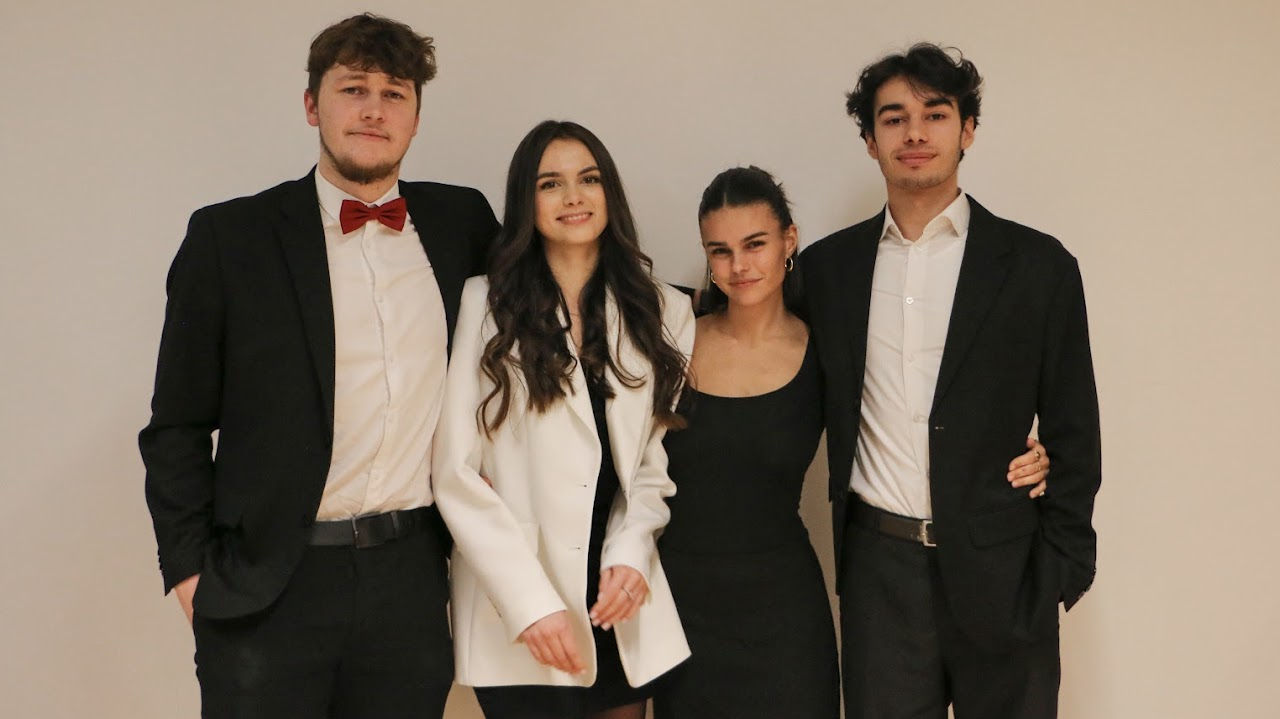
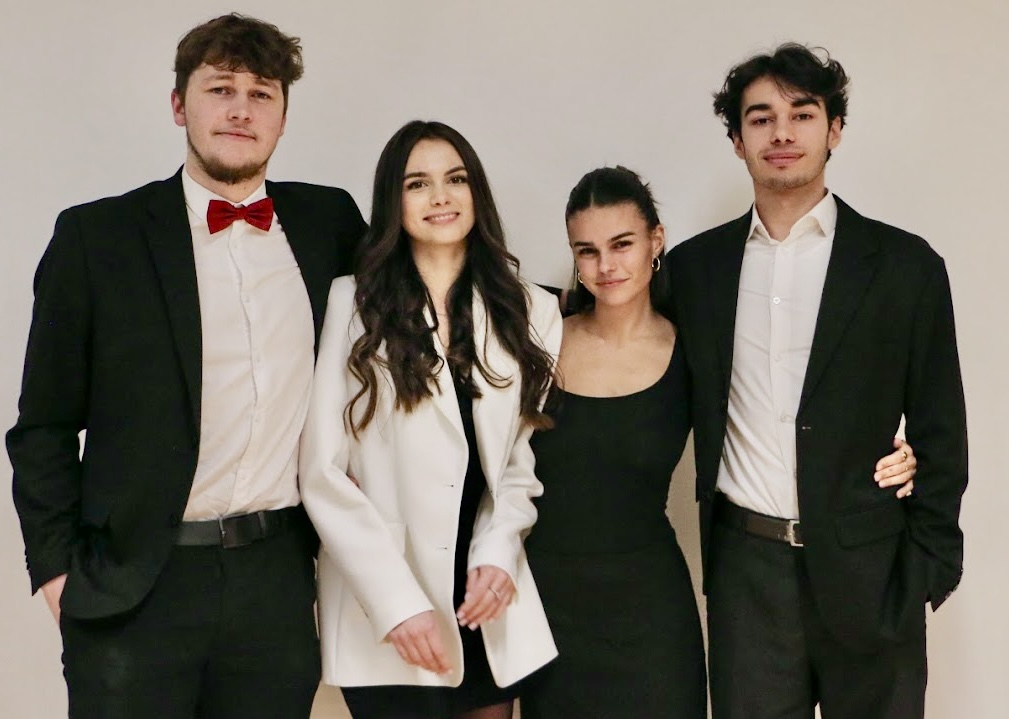
Use enhanced PR photo and show full team photos in all previews

diff --git a/index.html b/index.html
@@ -9,7 +9,7 @@
   <link rel="preconnect" href="https://fonts.googleapis.com">
   <link rel="preconnect" href="https://fonts.gstatic.com" crossorigin>
   <link href="https://fonts.googleapis.com/css2?family=Inter:wght@400;500;600;700;800;900&amp;display=swap" rel="stylesheet">
-  <link rel="stylesheet" href="styles.css">
+  <link rel="stylesheet" href="styles.css?v=full-team-photos-20260908">
 </head>
 <body>
   <a class="skip-link" href="#main">Skip to content</a>
@@ -94,7 +94,7 @@
             <span class="card-body"><span class="card-number">07</span><strong>Marketing and Communication</strong><span>Shape our voice and digital presence.</span><span class="card-arrow" aria-hidden="true">&rarr;</span></span>
           </button>
           <button class="department-card" type="button" data-department="relations" aria-haspopup="dialog">
-            <img src="assets/public-relations.jpg?v=37de4ae115a1" alt="" width="1280" height="719" loading="lazy">
+            <img src="assets/public-relations.jpg?v=34f6ef0c843f" alt="" width="1280" height="719" loading="lazy">
             <span class="card-body"><span class="card-number">08</span><strong>Public Relations</strong><span>Build relationships and represent AIESEC.</span><span class="card-arrow" aria-hidden="true">&rarr;</span></span>
           </button>
         </div>
@@ -161,7 +161,7 @@
     <article class="dialog-department"><img src="assets/marketing-communication.jpg?v=ba7ed4ec0924" alt="Marketing and Communication team at AIESEC in Geneva" width="1280" height="719"><div class="dialog-copy"><p class="department-number">07 / 08</p><h2 id="dialog-title">Marketing and Communication</h2><h3>Join Marketing and Communication and shape AIESEC's voice</h3><p>The Marketing and Communication department is the driving force behind AIESEC in Geneva's brand identity, ensuring our message reaches and inspires the right audience. We blend creativity with strategy to engage students through digital content, campaigns and promotional materials.</p><h4>As part of Marketing and Communication, you will:</h4><ul><li><strong>Manage AIESEC's social media presence</strong> on Instagram, TikTok, LinkedIn and more.</li><li><strong>Create engaging content</strong> from eye-catching graphics to compelling videos.</li><li><strong>Develop strategic marketing campaigns</strong> to boost visibility and engagement.</li><li><strong>Align global branding with local innovation</strong> for maximum impact.</li></ul><p class="fit-note">If you are passionate about content creation, branding and digital marketing, this is your chance to bring your creativity to life and make a real impact.</p></div></article>
   </template>
   <template id="department-relations">
-    <article class="dialog-department"><img src="assets/public-relations.jpg?v=37de4ae115a1" alt="Public Relations team at AIESEC in Geneva" width="1280" height="719"><div class="dialog-copy"><p class="department-number">08 / 08</p><h2 id="dialog-title">Public Relations</h2><h3>Join PR and elevate AIESEC's presence</h3><p>The Public Relations (PR) department is the bridge between AIESEC and the external world, shaping our public image and fostering valuable connections. Through media outreach, strategic partnerships and high-impact networking, PR ensures that AIESEC remains a recognized and trusted organization.</p><h4>As part of PR, you will:</h4><ul><li><strong>Build and maintain relationships</strong> with businesses, institutions and media representatives.</li><li><strong>Manage AIESEC's public image</strong> through strategic communication and media outreach.</li><li><strong>Create networking opportunities</strong> to expand our influence and partnerships.</li><li><strong>Enhance AIESEC's credibility and visibility</strong> on a local and professional level.</li></ul><p class="fit-note">If you are passionate about strategic communication, networking and brand reputation, PR is the place to develop your skills and make a lasting impact.</p></div></article>
+    <article class="dialog-department"><img src="assets/public-relations.jpg?v=34f6ef0c843f" alt="Public Relations team at AIESEC in Geneva" width="1280" height="719"><div class="dialog-copy"><p class="department-number">08 / 08</p><h2 id="dialog-title">Public Relations</h2><h3>Join PR and elevate AIESEC's presence</h3><p>The Public Relations (PR) department is the bridge between AIESEC and the external world, shaping our public image and fostering valuable connections. Through media outreach, strategic partnerships and high-impact networking, PR ensures that AIESEC remains a recognized and trusted organization.</p><h4>As part of PR, you will:</h4><ul><li><strong>Build and maintain relationships</strong> with businesses, institutions and media representatives.</li><li><strong>Manage AIESEC's public image</strong> through strategic communication and media outreach.</li><li><strong>Create networking opportunities</strong> to expand our influence and partnerships.</li><li><strong>Enhance AIESEC's credibility and visibility</strong> on a local and professional level.</li></ul><p class="fit-note">If you are passionate about strategic communication, networking and brand reputation, PR is the place to develop your skills and make a lasting impact.</p></div></article>
   </template>
 
   <script src="script.js"></script>

diff --git a/styles.css b/styles.css
@@ -48,7 +48,7 @@ h3 { margin-bottom:14px; font-size:1.25rem; letter-spacing:-.02em; }
 .department-grid { display:grid; grid-template-columns:repeat(4,minmax(0,1fr)); gap:18px; }
 .department-card { overflow:hidden; padding:0; border:1px solid var(--line); border-radius:var(--radius); background:var(--white); color:inherit; font:inherit; text-align:left; cursor:pointer; box-shadow:0 1px 0 rgba(11,23,54,.02); transition:transform 180ms ease,box-shadow 180ms ease,border-color 180ms ease; }
 .department-card:hover { transform:translateY(-5px); border-color:#a9d4ff; box-shadow:var(--shadow); }
-.department-card img { width:100%; height:128px; object-fit:cover; }
+.department-card img { width:100%; height:180px; object-fit:contain; object-position:center; background:#eaf5ff; }
 .card-body { position:relative; display:flex; flex-direction:column; min-height:188px; padding:19px 46px 22px 20px; }
 .card-number { margin-bottom:8px; color:var(--blue); font-size:.72rem; font-weight:900; letter-spacing:.13em; }
 .card-body strong { display:block; margin-bottom:8px; color:var(--navy); font-size:1rem; line-height:1.25; }
